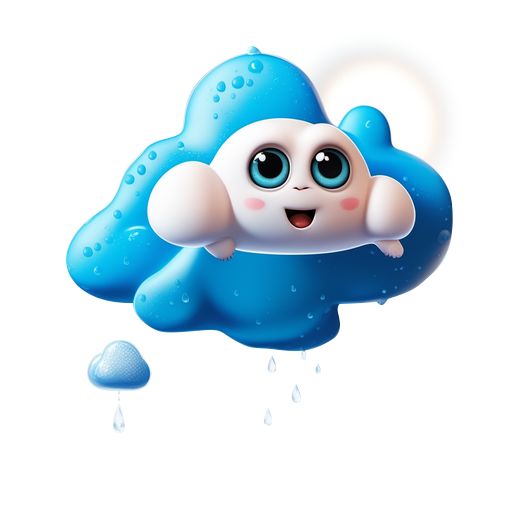
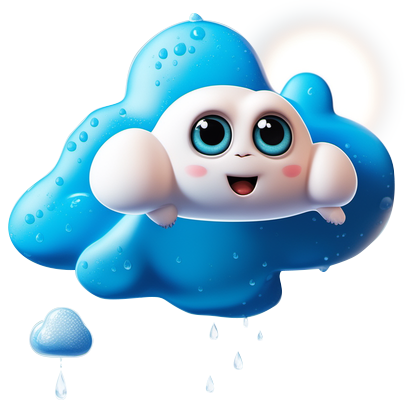
commit

diff --git a/src/styles/style.css b/src/styles/style.css
@@ -1411,11 +1411,11 @@ main #today #extra-info div span {
   bottom: 50px;
   /*right: 50px;*/
   right: 50px;
-  max-width: 100px;
-  max-height: 100px;
+  max-width: 130px;
+  max-height: 130px;
   border-radius: 50%;
   color: white;
-  padding: 5px;
+  padding: 1px;
   cursor: pointer;
   /*box-shadow: 0px 3px 16px 0px rgba(0, 0, 0, 0.6), 0 3px 1px -2px rgba(0, 0, 0, 0.2), 0 1px 5px 0 rgba(0, 0, 0, 0.12);*/
   box-shadow: 0px 3px 16px 0px rgba(246, 72, 72, 0.5), 0 3px 1px -2px rgba(246, 72, 72, 0.2), 0 1px 5px 0 rgba(0, 0, 0, 0.12);
@@ -1442,6 +1442,7 @@ main #today #extra-info div span {
 .chat-circle_robot {
   height: 100%;
   width: 100%;
+  object-fit: cover;
 }
 
 
